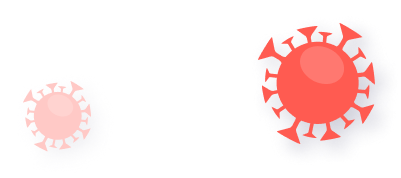
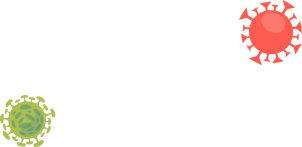
Replaced the Header

Changed region(s): [[0.6258, 0.0, 1.0, 0.8163], [0.0, 0.4626, 0.2384, 1.0]]

diff --git a/styles/layout/_header.scss b/styles/layout/_header.scss
@@ -1,10 +1,23 @@
-.banner_sec {
+#Incidence.banner_sec {
   background: linear-gradient(
     180deg,
     #ffffff 0%,
     #dffdbf 75.11%,
     var(--header) 100%
   );
+}
+#Death.banner_sec {
+  background: linear-gradient(
+    115.35deg,
+    #fff 20.25%,
+    #edc2ae 81.23%,
+    #fff 100%
+  );
+  margin-bottom: -1.1rem;
+  padding: 3rem 0 0rem !important;
+}
+
+.banner_sec {
   position: relative;
   z-index: 2;
   .btn_bg {
@@ -181,13 +194,29 @@
   }
   .green_virus {
     position: absolute;
-    bottom: 44%;
-    right: 0;
+    top: 25%;
+    left: 22%;
     z-index: -1;
+    @include respond(1260px) {
+      left: 18%;
+    }
     @include respond(tab-land) {
       //1200px
       width: 14rem;
     }
+    @include respond(1100px) {
+      top: 28%;
+      left: 15%;
+    }
+    @include respond(1000px) {
+      width: 12rem;
+      top: 23%;
+      left: 10%;
+    }
+    @include respond(850px) {
+      left: 5%;
+    }
+
     @include respond(phone) {
       //768px
       display: none;
@@ -195,13 +224,29 @@
   }
   .red_virus {
     position: absolute;
-    bottom: 35%;
-    left: 37%;
-    transform: translate(-50%, -50%);
+    top: 23%;
+    right: 29%;
+    @include respond(1600px) {
+      right: 25%;
+      top: 25%;
+    }
+    @include respond(1260px) {
+      right: 20%;
+      top: 29%;
+    }
     @include respond(tab-land) {
       //1200px
       width: 18rem;
     }
+    @include respond(1000px) {
+      width: 14rem;
+      right: 20%;
+      top: 35%;
+    }
+    @include respond(900px) {
+      top: 40%;
+    }
+
     @include respond(phone) {
       //768px
       display: none;

diff --git a/layout/Header.tsx b/layout/Header.tsx
@@ -11,7 +11,7 @@ const Header = () => {
   const { onIncidence, onDeath } = useCategoryToggler();
   return (
     <header>
-      <section className="banner_sec">
+      <section id={category} className="banner_sec">
         <div className="container">
           <div className="row">
             <div className="col-12 text-center">
@@ -61,15 +61,13 @@ const Header = () => {
                 Cancer Interactive <br />
                 <span>Data Story</span>
               </h1>
-              <img
-                src={
-                  category === "Incidence"
-                    ? "img/banner_incidence.svg"
-                    : "img/banner_img.png"
-                }
-                className={`img-fluid banner_img ${category}`}
-                alt="banner_img"
-              />
+              {category === "Incidence" && (
+                <img
+                  src="img/banner_incidence.svg"
+                  className={`img-fluid banner_img ${category}`}
+                  alt="banner_img"
+                />
+              )}
             </div>
           </div>
         </div>
@@ -81,9 +79,14 @@ const Header = () => {
               alt="banner_red_virus"
             />
             <img
-              src="img/banner_green.png"
+              src="img/banner_green_virus.png"
               className="img-fluid green_virus"
               alt="banner_green_virus"
+            />
+            <img
+              src="img/Graveyard.png"
+              alt="banner_img"
+              style={{ width: "100%" }}
             />
           </>
         )}

diff --git a/components/Summary/index.tsx b/components/Summary/index.tsx
@@ -84,7 +84,7 @@ const Summary = () => {
       <div className="container">
         <div className="row">
           <div className="col-12">
-            <div className="box_gray">
+            <div id={category} className="box_gray">
               <SwipeWrapper
                 breakpoints={{
                   300: {

diff --git a/styles/pages/_home.scss b/styles/pages/_home.scss
@@ -1,5 +1,15 @@
 // ==========secoend_sec start=============
 
+#Death.box_gray {
+  margin-top: -6rem;
+  @include respond(1600px) {
+    margin-top: -2rem;
+  }
+
+  @include respond(996px) {
+    margin-top: 0rem;
+  }
+}
 .box_gray {
   margin-top: -14rem;
   background: var(--bg-summary);
